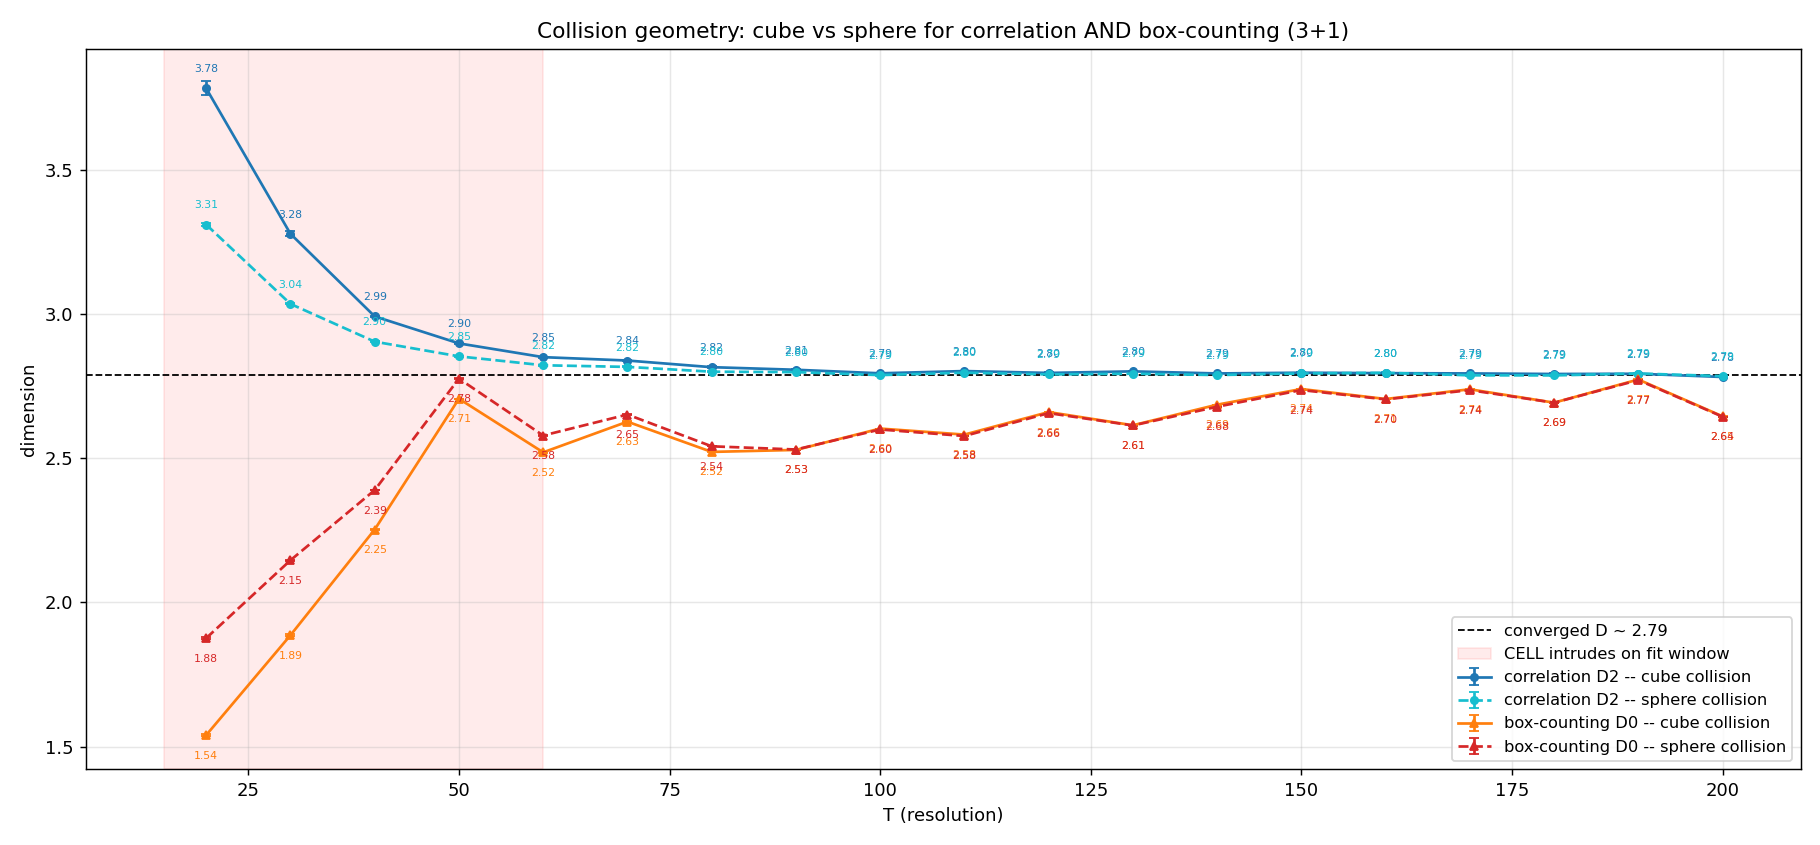
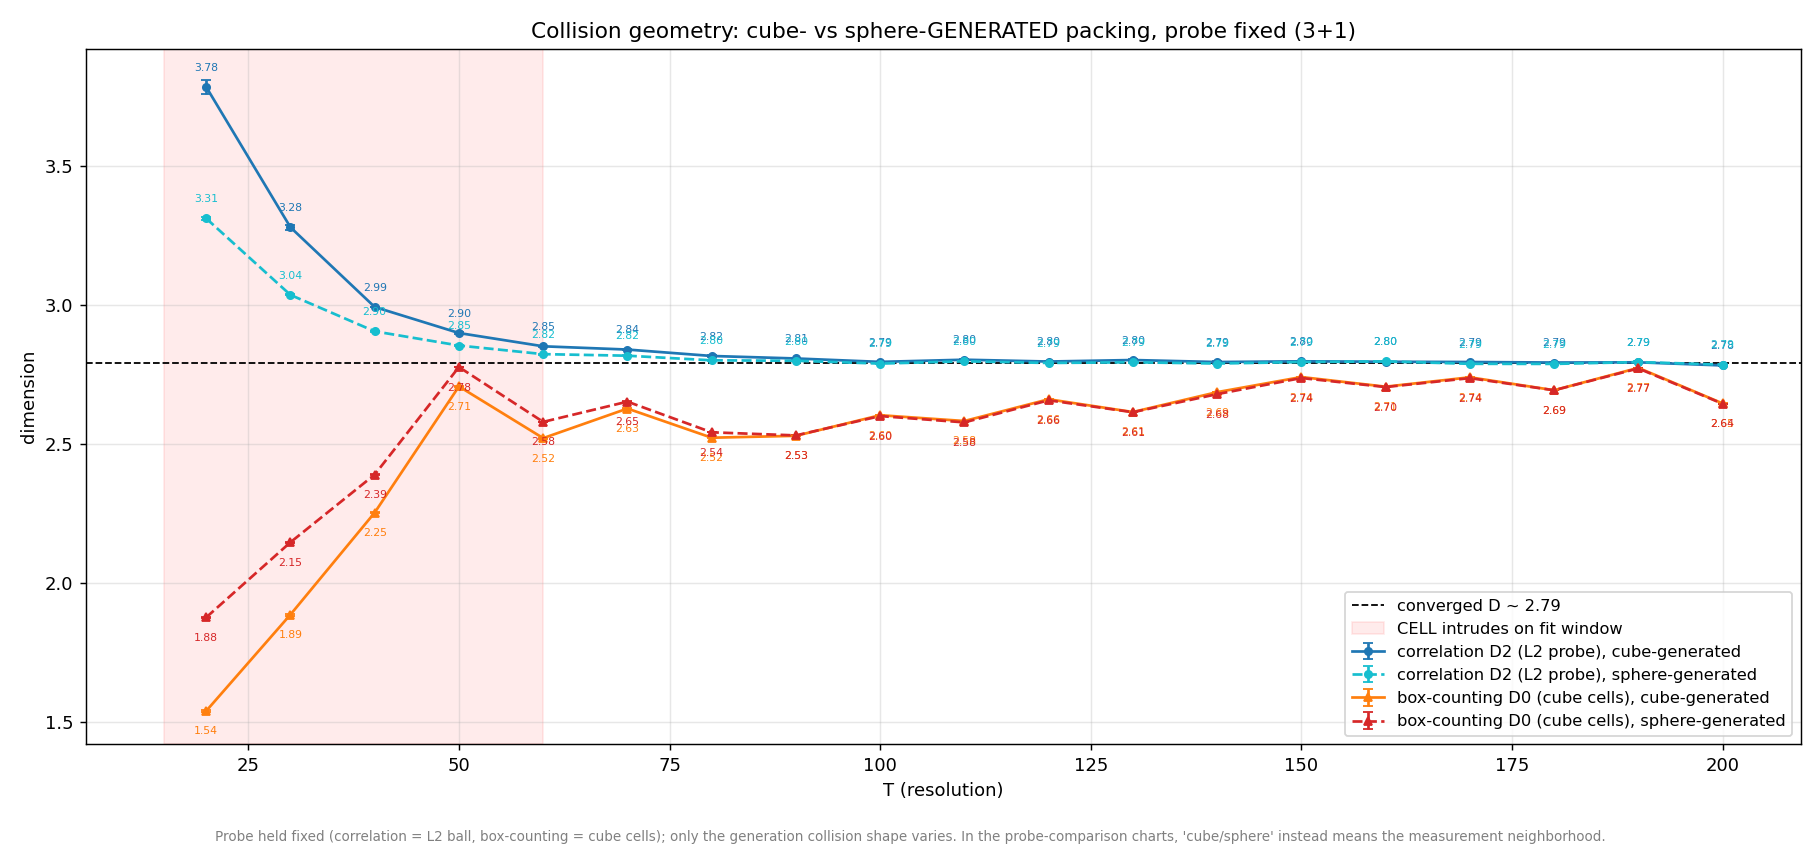
Relabel collision-geometry chart to disambiguate probe vs generation
The legend now names the fixed probe first (correlation = L2 ball, box =
cube cells) and the generation geometry second (cube-/sphere-generated), with
a footnote contrasting it against the probe-comparison charts where
'cube/sphere' means the measurement neighborhood. Numbers unchanged
(correlation ~2.79, box-counting ~2.68); only labels + regenerated figure.
Caption updated to match.

diff --git a/docs/lab-notes/2026-07-01/index.html b/docs/lab-notes/2026-07-01/index.html
@@ -35,8 +35,10 @@
         <figcaption>
           Correlation D2 (L2 probe) and box-counting D0 (cube cells), each measured
           on cube-collision and sphere-collision dumps, seed-averaged vs resolution
-          T (3+1). Solid = cube collision, dashed = sphere collision. Shaded band =
-          low T where the packing cell intrudes on the fit window.
+          T (3+1). The probe is held fixed (correlation = L2 ball, box-counting =
+          cube cells); only the generation collision shape varies. Solid =
+          cube-generated, dashed = sphere-generated. Shaded band = low T where the
+          packing cell intrudes on the fit window.
         </figcaption>
       </figure>
       <p>

diff --git a/analysis/analyze_collision_geometry.py b/analysis/analyze_collision_geometry.py
@@ -99,16 +99,19 @@ def main() -> None:
     print("sphere-collision dumps:")
     sphere_ts, sphere_mean, sphere_sem = collect(args.sphere_dumps, args.seeds)
 
+    # Labels name the fixed probe first, then the generation geometry, so this
+    # chart is never confused with the probe-comparison charts (where
+    # "cube/sphere" is the measurement neighborhood, not the packing exclusion).
     # (T grid, mean, sem, color, marker, label, label y-offset in points)
     series = [
         (cube_ts, cube_mean["corr"], cube_sem["corr"],
-         "tab:blue", "o-", "correlation D2 -- cube collision", 9),
+         "tab:blue", "o-", "correlation D2 (L2 probe), cube-generated", 9),
         (sphere_ts, sphere_mean["corr"], sphere_sem["corr"],
-         "tab:cyan", "o--", "correlation D2 -- sphere collision", 9),
+         "tab:cyan", "o--", "correlation D2 (L2 probe), sphere-generated", 9),
         (cube_ts, cube_mean["box"], cube_sem["box"],
-         "tab:orange", "^-", "box-counting D0 -- cube collision", -13),
+         "tab:orange", "^-", "box-counting D0 (cube cells), cube-generated", -13),
         (sphere_ts, sphere_mean["box"], sphere_sem["box"],
-         "tab:red", "^--", "box-counting D0 -- sphere collision", -13),
+         "tab:red", "^--", "box-counting D0 (cube cells), sphere-generated", -13),
     ]
 
     fig, ax = plt.subplots(figsize=(14, 6.5))
@@ -127,11 +130,21 @@ def main() -> None:
     ax.set_xlabel("T (resolution)")
     ax.set_ylabel("dimension")
     ax.set_title(
-        "Collision geometry: cube vs sphere for correlation AND box-counting (3+1)"
+        "Collision geometry: cube- vs sphere-GENERATED packing, probe fixed (3+1)"
     )
     ax.legend(loc="lower right", fontsize=9)
     ax.grid(True, alpha=0.3)
-    fig.tight_layout()
+    fig.text(
+        0.5,
+        0.005,
+        "Probe held fixed (correlation = L2 ball, box-counting = cube cells); "
+        "only the generation collision shape varies. In the probe-comparison "
+        "charts, 'cube/sphere' instead means the measurement neighborhood.",
+        ha="center",
+        fontsize=7.5,
+        color="gray",
+    )
+    fig.tight_layout(rect=(0, 0.03, 1, 1))
     args.out.parent.mkdir(parents=True, exist_ok=True)
     fig.savefig(args.out, dpi=130)
 